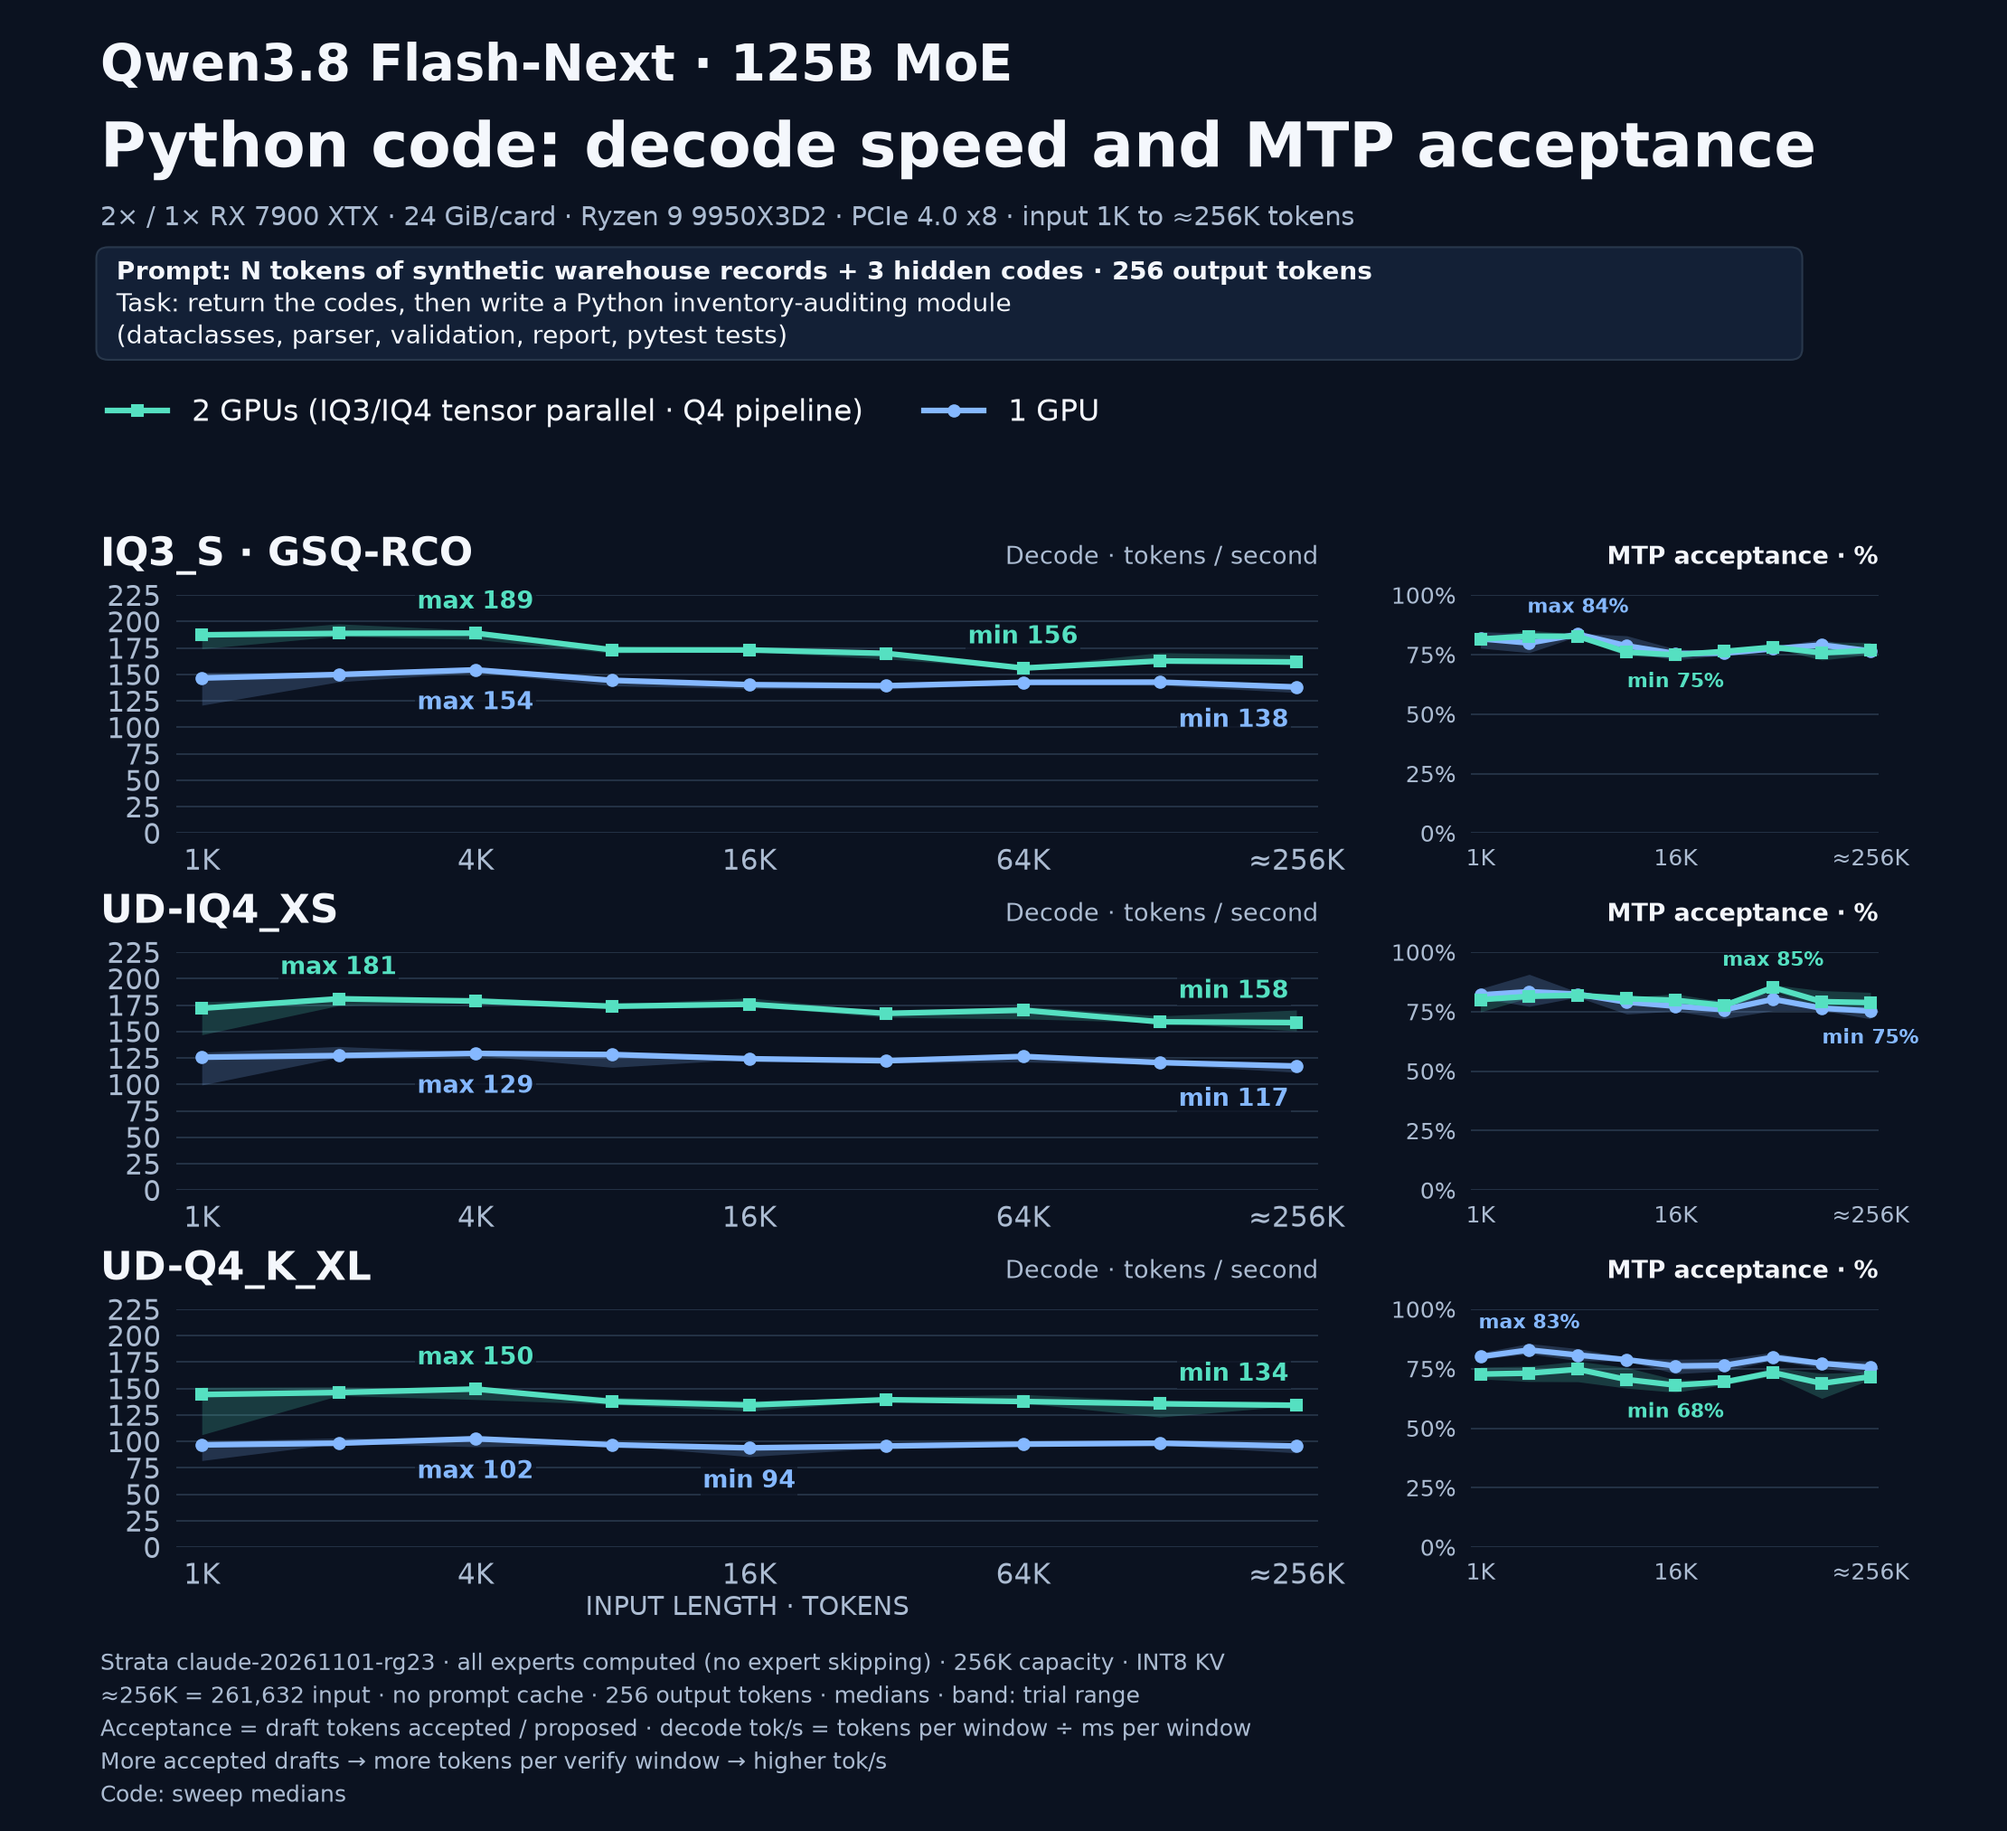
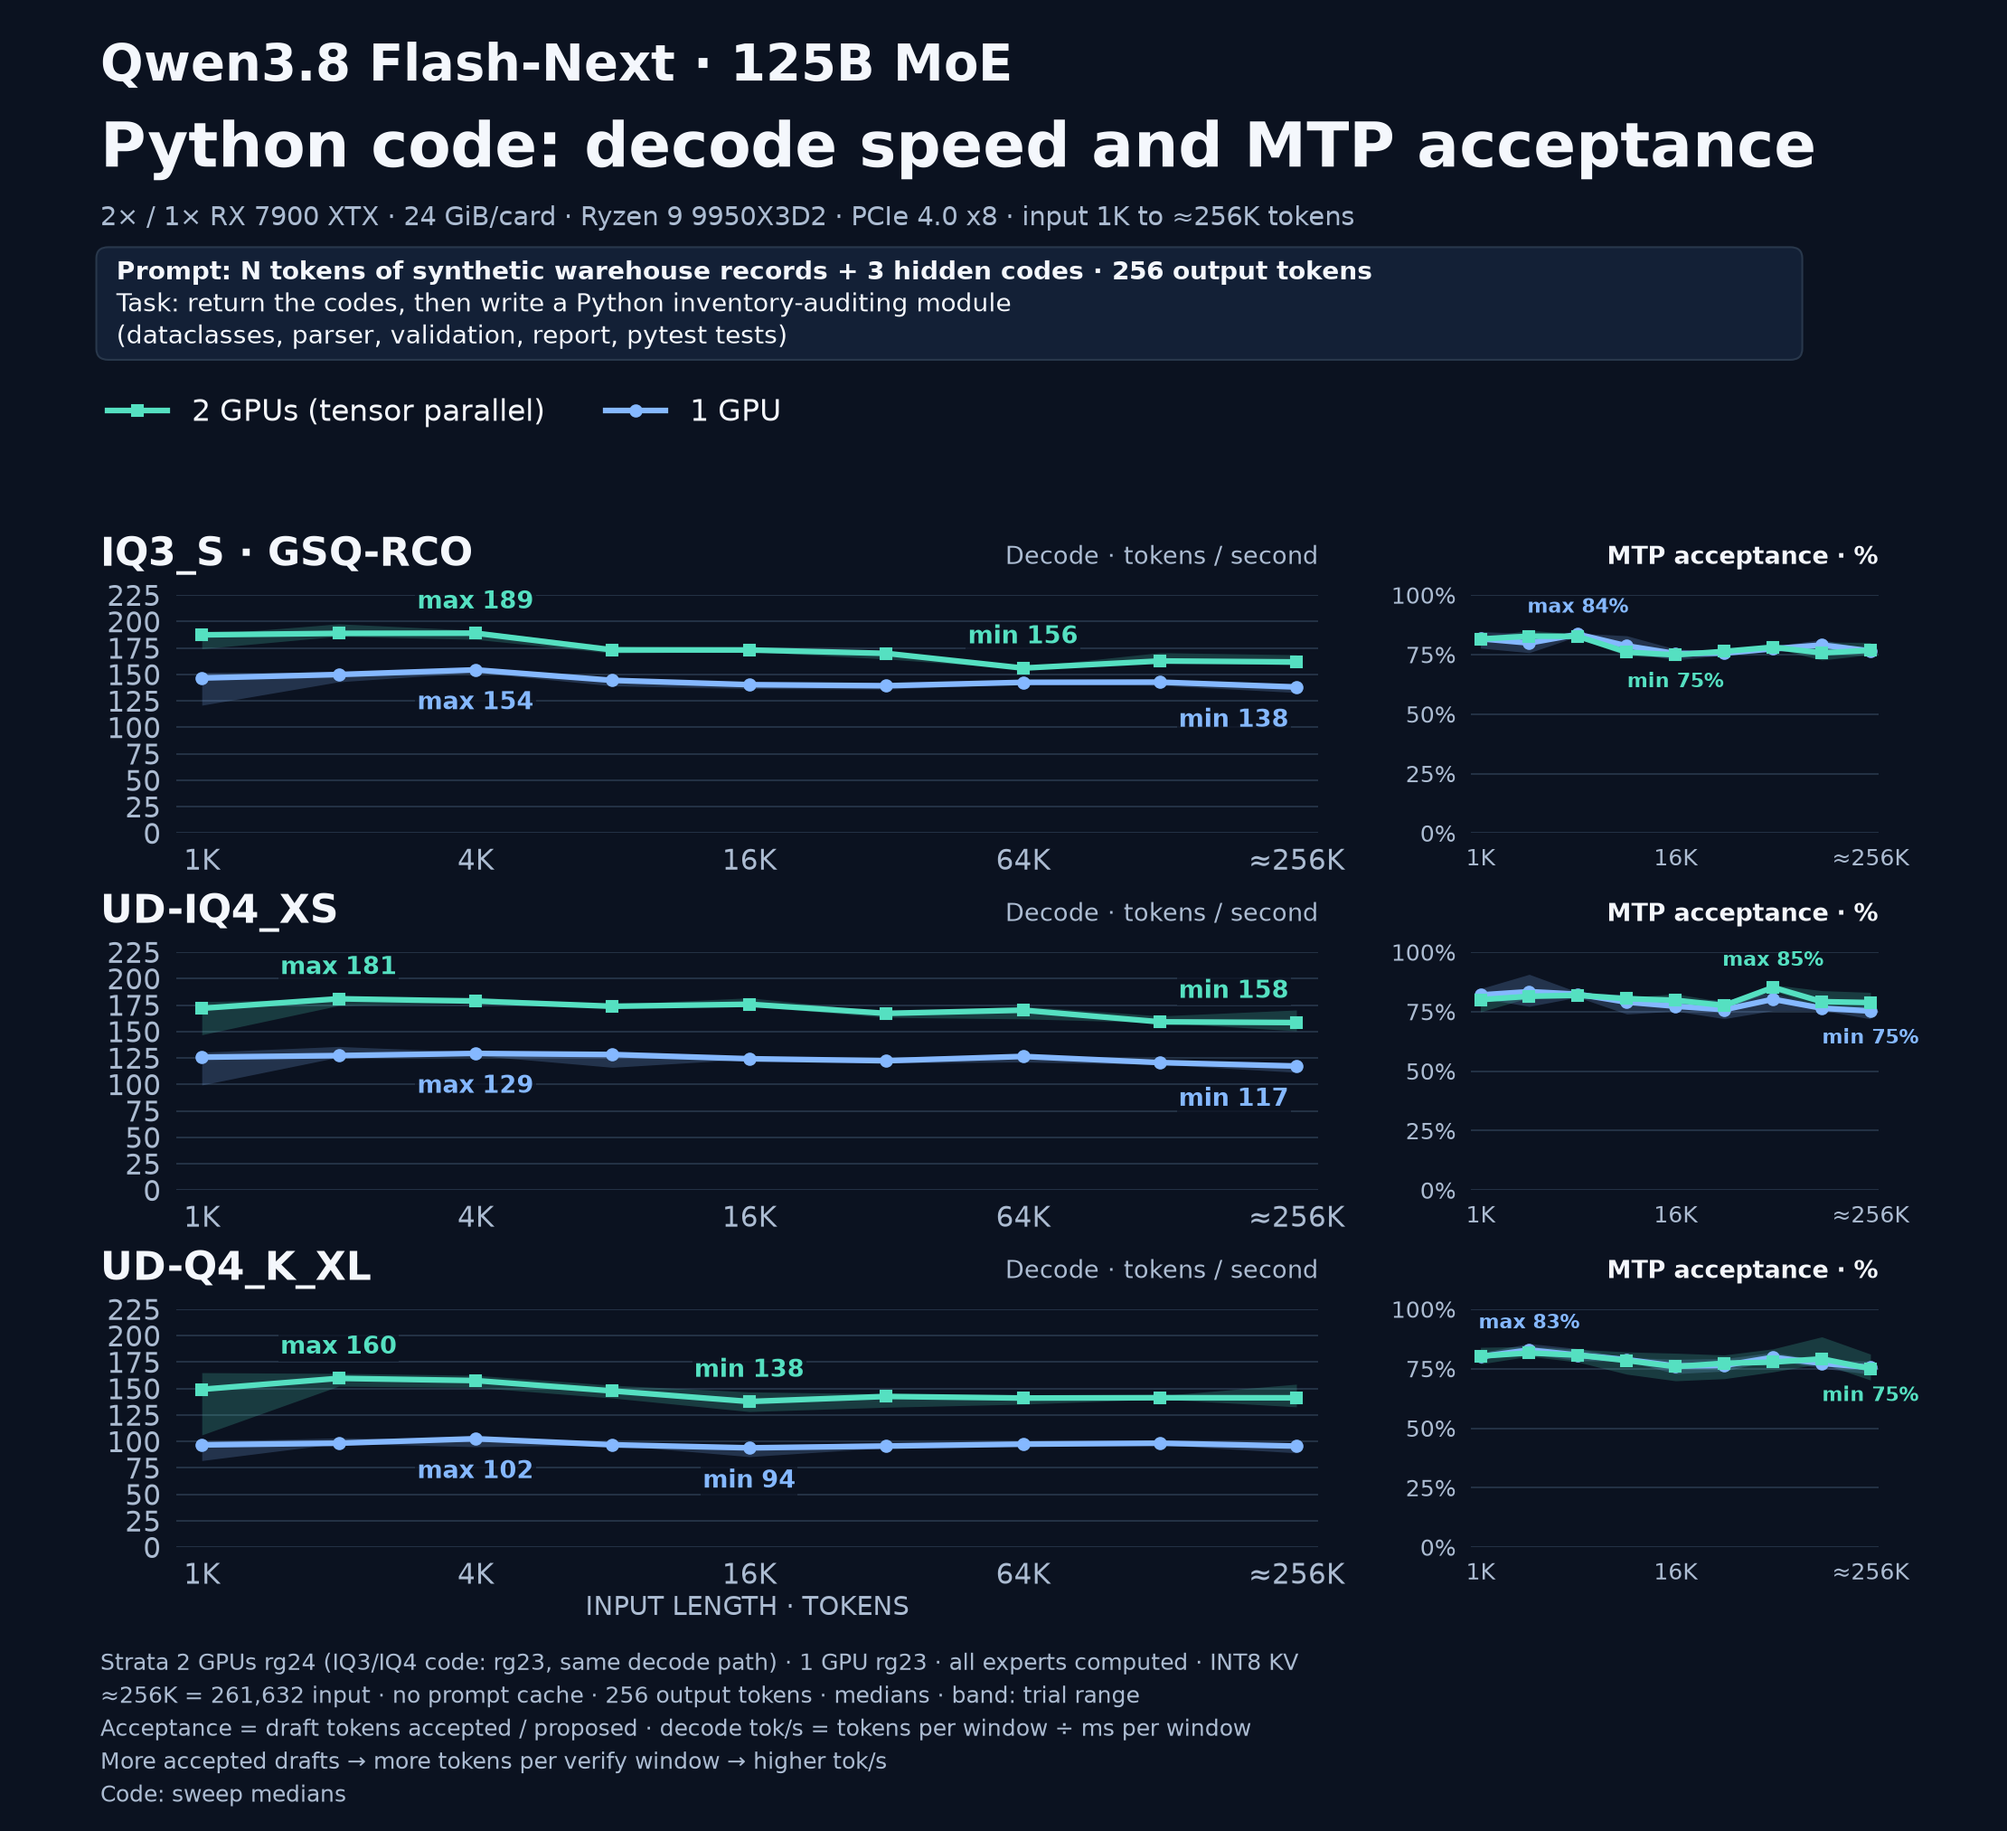
README + charts: UD-Q4_K_XL on 2 GPUs decodes tensor parallel (production 2026-11-02, rg24): decode +0.9..+9.1% code / +4.0..+12.3% English, prefill +0.6..+13.9% vs its layer split; charts and table from the 11-02 production set (rg24 on 2 GPUs, rg23 on 1 GPU)

diff --git a/README.md b/README.md
@@ -28,14 +28,15 @@
 ## RDNA3 / RX 7900 XTX fork
 
 Measured on one or two **RX 7900 XTX** (24 GB each, PCIe 4.0 x8) with a Ryzen 9 9950X3D2 and 128 GB of RAM, release
-`claude-20261101-rg23`, with every expert computed (no expert skipping). Lines are the median of 3 trials (the faint band
+`claude-20261102-rg24` on two GPUs and `claude-20261101-rg23` on one (the releases in production on 2026-11-02), with
+every expert computed (no expert skipping). Lines are the median of 3 trials (9 for UD-Q4_K_XL on 2 GPUs; the faint band
 is the trial range); every request was checked for exact input length, 256 output tokens and correct retrieval, with no
 prompt cache.
 
 **What the prompts are.** Each prompt is N tokens of synthetic warehouse records with 3 hidden codes. The model returns
 the codes, then writes either an inventory-auditing guide (**English prose**) or a Python inventory-auditing module
 (**Python code**). Decode speed depends on the text: the model's MTP head drafts ahead, and code drafts are accepted more
-often (about 78 % vs 61 %), so code decodes 19-37 % faster on the same hardware. Compare tok/s only on the same kind
+often (about 79 % vs 61 %), so code decodes 15-37 % faster on the same hardware. Compare tok/s only on the same kind
 of text.
 
 <p align="center"><img src="docs/media/rdna3/prefill.png" width="49%" alt="Flash-Next prefill speed, 1 and 2 RX 7900 XTX"> <img src="docs/media/rdna3/vs-rtx4090.png" width="49%" alt="1 and 2 RX 7900 XTX against a public RTX 4090 run on the same requests"></p>
@@ -43,30 +44,41 @@ of text.
 
 | Flash-Next, tokens/s | prefill 32K / 128K / ≈256K | decode, English prose 32K / 128K / ≈256K | decode, Python code 32K / 128K / ≈256K |
 |---|---|---|---|
-| IQ3_S, 2 GPUs | 6,780 / 6,781 / 6,402 | 132.7 / 137.2 / 129.6 | 169.9 / 162.7 / 161.8 |
+| IQ3_S, 2 GPUs | 6,760 / 6,778 / 6,405 | 129.8 / 141.1 / 127.4 | 169.9 / 162.7 / 161.8 |
 | IQ3_S, 1 GPU | 3,541 / 3,553 / 3,311 | 114.1 / 112.9 / 111.8 | 139.3 / 142.7 / 138.1 |
-| UD-IQ4_XS, 2 GPUs | 7,075 / 7,086 / 6,580 | 127.8 / 123.6 / 121.6 | 167.1 / 159.1 / 158.4 |
+| UD-IQ4_XS, 2 GPUs | 7,060 / 7,082 / 6,586 | 127.8 / 126.8 / 129.9 | 167.1 / 159.1 / 158.4 |
 | UD-IQ4_XS, 1 GPU | 3,455 / 3,480 / 3,251 | 94.2 / 91.9 / 89.0 | 122.3 / 120.6 / 117.3 |
-| UD-Q4_K_XL, 2 GPUs | 5,381 / 6,878 / 6,560 | 109.5 / 105.6 / 102.9 | 139.4 / 135.6 / 134.1 |
-| UD-Q4_K_XL, 1 GPU | 3,613 / 3,676 / 3,429 | 78.3 / 80.9 / 72.1 | 95.6 / 98.3 / 95.6 |
+| UD-Q4_K_XL, 2 GPUs | 5,770 / 7,089 / 6,604 | 116.6 / 113.5 / 113.5 | 142.5 / 141.3 / 141.2 |
+| UD-Q4_K_XL, 1 GPU | 3,613 / 3,676 / 3,442 | 78.3 / 80.9 / 72.1 | 95.6 / 98.3 / 95.6 |
 
-Fastest measured decode: IQ3_S on 2 GPUs writing code, 189 tok/s (4K context). On 2 GPUs IQ3_S and UD-IQ4_XS decode
-tensor parallel and UD-Q4_K_XL uses a pipelined layer split; prompts take one of three paths by length (below).
+Fastest measured decode: IQ3_S on 2 GPUs writing code, 189 tok/s (4K context). On 2 GPUs all three quants decode
+tensor parallel (UD-Q4_K_XL since 2026-11-02, before that a pipelined layer split); prompts take one of three paths by
+length (below). UD-IQ4_XS and IQ3_S 2-GPU code cells are rg23 sweeps (rg24 changes only prompts of 3K-12K).
 
 ### How the two cards are used
 
 | | IQ3_S, UD-IQ4_XS (2 GPUs) | UD-Q4_K_XL (2 GPUs) |
 |---|---|---|
-| Decode | tensor parallel (`--tensor-parallel 2`) | layer split + `--pipeline-windows 2` |
+| Decode | tensor parallel (`--tensor-parallel 2`) | tensor parallel (since 2026-11-02; before: layer split + `--pipeline-windows 2`) |
 | Short prompts | one chunk through the layer split, the idle card computing part of the other's experts | same |
-| Mid-length prompts | tensor-parallel prefill, 3,072 (IQ3_S) / 5,120 (UD-IQ4_XS) to 12,288 tokens | one chunk, then data parallel from 18,000 tokens |
+| Mid-length prompts | tensor-parallel prefill, 3,072 (IQ3_S) / 5,120 (UD-IQ4_XS) to 12,288 tokens | one chunk (tensor-parallel prefill is link-bound on Q4), then data parallel from 18,000 tokens |
 | Long prompts | data parallel | data parallel |
 
 **Tensor-parallel decode.** Every layer runs on both cards: attention is split by head, the routed experts are split by
 expert id across the two cards' expert caches, and the cards exchange their partial results once a layer over PCIe 4.0
 x8. The layer split instead puts layers 0-23 on card 0 and 24-47 on card 1; `--pipeline-windows 2` starts the next
 decode window on card 0 before the current one is verified, so both cards stay busy. Tensor parallel turns that pipeline
-off. UD-Q4_K_XL decode on tensor parallel is under evaluation.
+off. That pipeline had a cost: the early window has to be drafted about four tokens deep, and on UD-Q4_K_XL code its
+acceptance fell to ~71 % against 79 % on one GPU. With the VRAM savings below, UD-Q4_K_XL moved to tensor parallel on
+2026-11-02 (`--vram-reserve-mib 576 --vram-reserve-later-mib 640`, `STRATA_TP_DEAL_BUDGET=5200`). Against its layer split
+on the same binary, over three rounds of 1K-256K sweeps:
+
+- decode is +0.9..+9.1 % on code and +4.0..+12.3 % on English at every length;
+- prefill is +0.6..+13.9 %;
+- code acceptance returns to 75-82 %.
+
+The refill of the borrowed expert slots runs beside the first decode windows, so the code windows of a 256-token answer
+are 3-11 % longer at 8K-128K.
 
 **What tensor parallel costs in VRAM, and what was won back.** At first each card held three extra things beside the
 layer-split weights that prompt reading still uses: a sliced copy of the dense weights, a tensor-parallel session, and a
@@ -99,11 +111,11 @@ plus ~10 GB of exchanges through one PCIe 4.0 x8 link) and loses at every length
 **Against an RTX 4090** (IQ3_S, the exact requests of the public
 [nvidia-4090-flash-next-inference](https://github.com/AnnoyingTechnology/nvidia-4090-flash-next-inference) run of
 2026-10-04 on a 24 GB RTX 4090, replayed here): decode at 32K / 128K is 119 / 108 tok/s on the 4090, 117 / 117 on one
-7900 XTX and 142 / 140 on two; fresh 32K prefill 4,672 vs 3,541 and 6,780 tok/s. Against stock Strata on the same card
-(UD-IQ4_XS, 32K): prefill 1,151 -> 3,455 tok/s on one GPU and 1,727 -> 7,075 on two.
+7900 XTX and 142 / 140 on two; fresh 32K prefill 4,672 vs 3,541 and 6,760 tok/s. Against stock Strata on the same card
+(UD-IQ4_XS, 32K): prefill 1,151 -> 3,455 tok/s on one GPU and 1,727 -> 7,060 on two.
 
 **What the fork adds** (all gfx1100 HIP; most are opt-in environment switches, so stock behaviour is unchanged):
-- Decode: tensor-parallel decode on two cards for IQ3_S / UD-IQ4_XS, with its VRAM copies aliased
+- Decode: tensor-parallel decode on two cards for IQ3_S / UD-IQ4_XS / UD-Q4_K_XL, with its VRAM copies aliased
   (`STRATA_TP_ALIAS`, `STRATA_TP_SHARE_DP`, `STRATA_TP_ALIAS_MAP=rows`); RDNA hyper-connection reads (int8 /
   int8-activation, fused down+up with a grid barrier); multi-column Q4_K/Q5_K/Q6_K/IQ4_XS GEMVs; fused router publish,
   fused waits and CPU-row combine; a register top-k for QSA at 262K capacity, split across many CTAs past 96K
